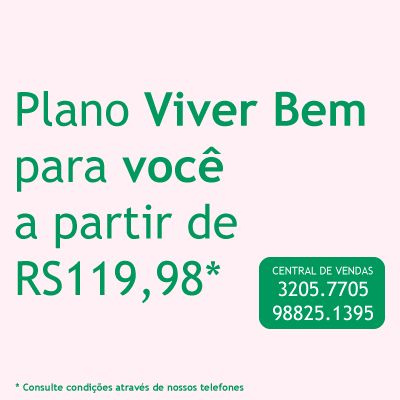
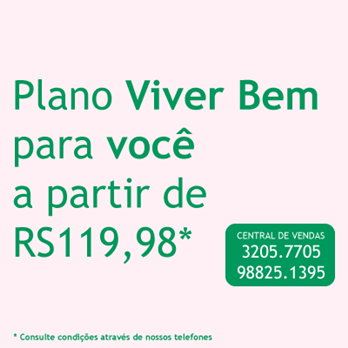
Inserção de marca, redimensionamento

diff --git a/css/all.css b/css/all.css
@@ -4,10 +4,14 @@ body {
   background: greenyellow;
 }
 
+.img-logo {
+  margin-top: 15px
+}
+
 .uc-container {
 	position: relative;
-	width: 100px;
-	height: 100px;
+	width: 87px;
+	height: 87px;
 	top: 0;
 	left: 0;
 }
@@ -24,7 +28,8 @@ body {
 .uc-initial, 
 .uc-final-wrapper {
 	width: 100%;
-	height: 100%;
+  height: 100%;
+  /* max-width: 100vw; */
 	position: absolute;
 	top: 0;
 	left: 0;
@@ -44,8 +49,8 @@ label {
   -webkit-transform-style: preserve-3d;
   transform-style: preserve-3d;
   display: block;
-  width: 400px;
-  height: 400px;
+  width: 348px;
+  height: 348px;
   position: absolute;
   left: 50%;
   top: 50%;
@@ -103,4 +108,17 @@ span.close {
   position: absolute;
   right: 5px;
   top: 5px;
+}
+
+span.close-fake {
+  position: absolute;
+  right: 5px;
+  top: 5px;
+  float: right;
+  font-size: 1.5rem;
+  font-weight: 700;
+  line-height: 1;
+  color: #000;
+  text-shadow: 0 1px 0 #fff;
+  opacity: .5;
 }

diff --git a/index.html b/index.html
@@ -17,7 +17,7 @@
                 <div id="uc-container" class="uc-container">
                     <div class="uc-initial-content">
                         <!-- initial content -->
-                        <h1 class="clickMe">Teste</h1>
+                        <img src="img/unimed-logo.png" class="clickMe img-logo" alt="">
                     </div>
                     <div class="uc-final-content">
                         <!-- final content -->
@@ -26,6 +26,7 @@
                             <div class="cartao">
                                 <div class="frente">
                                     <img src="img/conteudo-pop_up-frente.png" alt="">
+                                    <span class="close-fake">x</span>
                                 </div>
                                 <div class="verso">
                                     <img src="img/conteudo-pop_up-verso.png" alt="">

diff --git a/js/all.js b/js/all.js
@@ -8,7 +8,7 @@ $(function () {
     });
 
   $container
-    .find("h1.clickMe")
+    .find("img.clickMe")
     .on("click", function () {
       pfold.unfold();
     })
